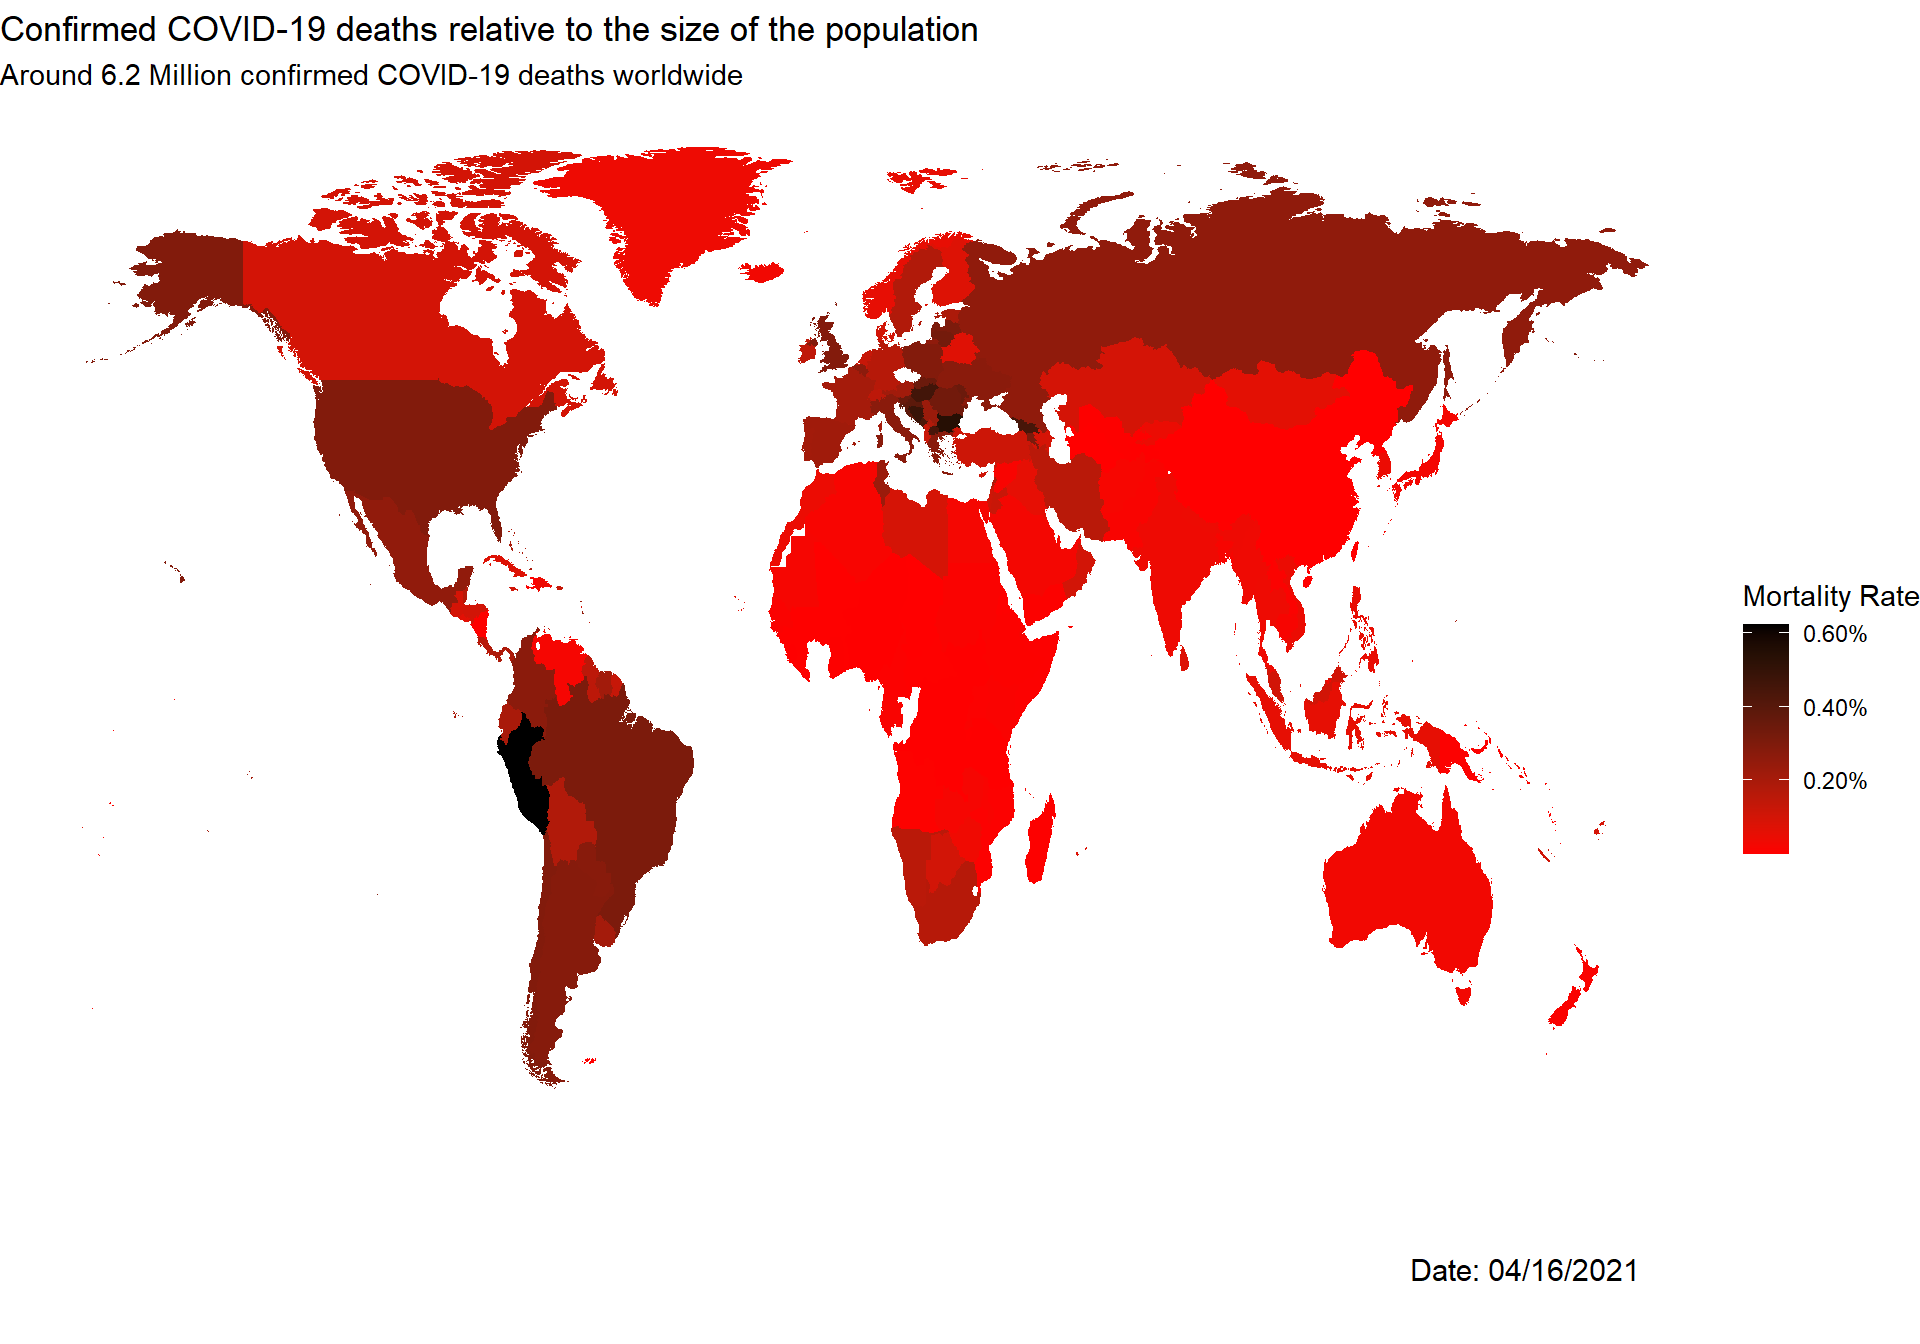
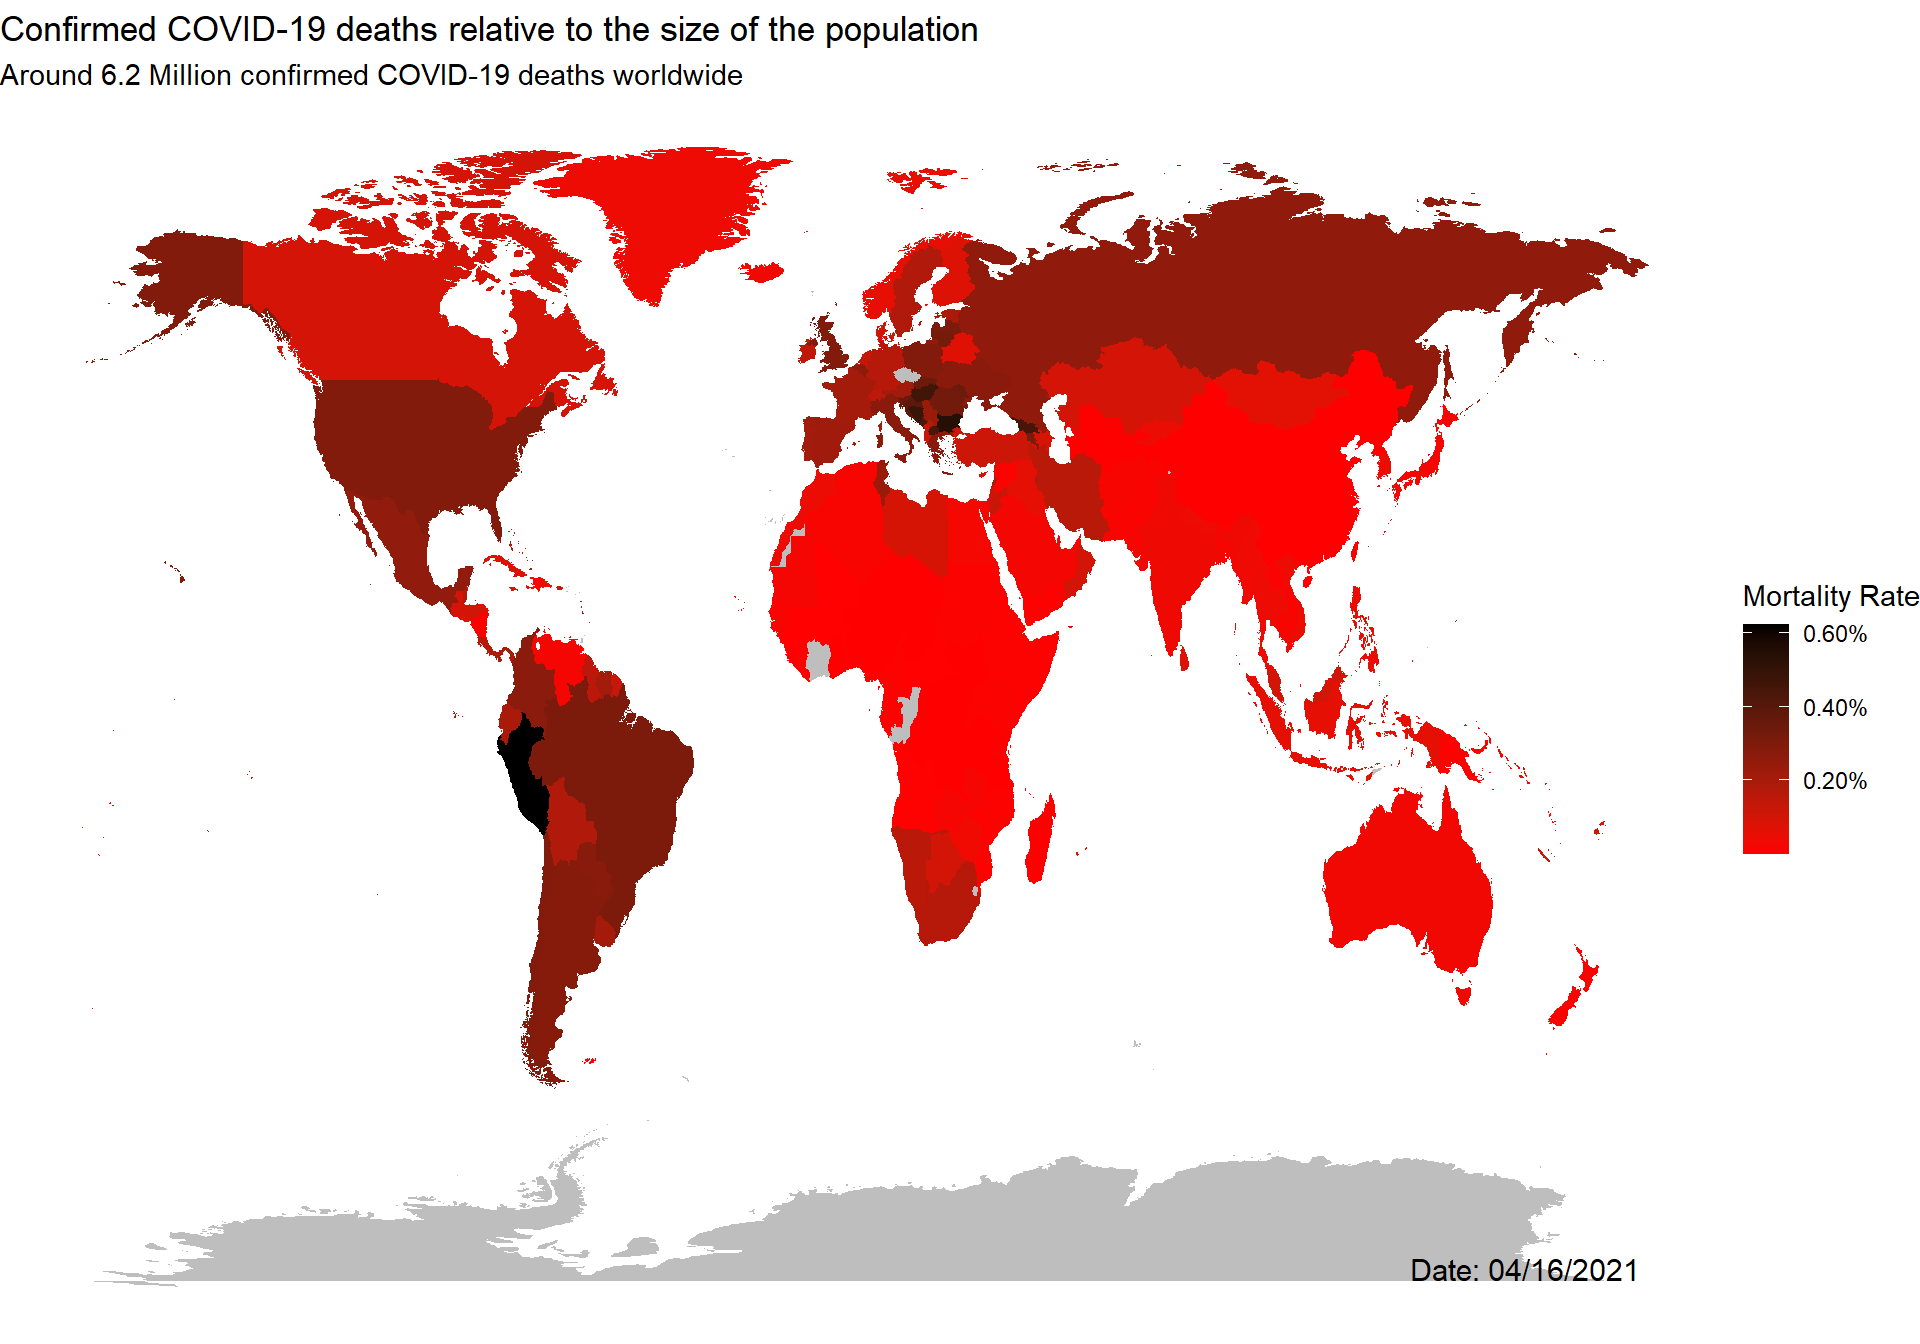
a

Changed region(s): [[0.0625, 0.8438, 0.8125, 0.9688], [0.4688, 0.5, 0.5, 0.5625], [0.4062, 0.4688, 0.4375, 0.5]]

diff --git a/_site/content/01_journal/04_data_visualization.html b/_site/content/01_journal/04_data_visualization.html
@@ -296,7 +296,7 @@ code span.wa { color: #60a0b0; font-weight: bold; font-style: italic; } /* Warni
 </div>
 </section><section id="data-visualization-challenge-2" class="level1" data-number="2"><h1 data-number="2">
 <span class="header-section-number">2</span> Data Visualization Challenge-2</h1>
-<div class="cell" data-hash="04_data_visualization_cache/html/plots_f70eedab9838a4bb1248faf86b5abf9f">
+<div class="cell" data-hash="04_data_visualization_cache/html/plots_3a2caa6a9ae571732e92ceb50b089ee3">
 <div class="sourceCode cell-code" id="cb5"><pre class="sourceCode numberSource r number-lines code-with-copy"><code class="sourceCode r"><span id="cb5-1"><a href="#cb5-1"></a><span class="fu">library</span>(tidyverse)</span>
 <span id="cb5-2"><a href="#cb5-2"></a><span class="fu">library</span>(maps)</span>
 <span id="cb5-3"><a href="#cb5-3"></a></span>
@@ -306,7 +306,7 @@ code span.wa { color: #60a0b0; font-weight: bold; font-style: italic; } /* Warni
 <span id="cb5-7"><a href="#cb5-7"></a><span class="do">##----2.Read the data----</span></span>
 <span id="cb5-8"><a href="#cb5-8"></a>covid_data_tbl <span class="ot">&lt;-</span> <span class="fu">read_csv</span>(<span class="st">"https://covid.ourworldindata.org/data/owid-covid-data.csv"</span>)</span></code><button title="Copy to Clipboard" class="code-copy-button"><i class="bi"></i></button></pre></div>
 <div class="cell-output cell-output-stderr">
-<pre><code>#&gt; Rows: 311447 Columns: 67
+<pre><code>#&gt; Rows: 311451 Columns: 67
 #&gt; ── Column specification ────────────────────────────────────────────────────────
 #&gt; Delimiter: ","
 #&gt; chr   (4): iso_code, continent, location, tests_units
@@ -327,7 +327,7 @@ code span.wa { color: #60a0b0; font-weight: bold; font-style: italic; } /* Warni
 <span id="cb7-9"><a href="#cb7-9"></a>    <span class="cn">TRUE</span> <span class="sc">~</span> location</span>
 <span id="cb7-10"><a href="#cb7-10"></a>  )) <span class="sc">%&gt;%</span></span>
 <span id="cb7-11"><a href="#cb7-11"></a>  <span class="fu">filter</span>(date <span class="sc">&lt;=</span> <span class="fu">as.Date</span>(<span class="st">"2022-04-19"</span>)) <span class="sc">%&gt;%</span></span>
-<span id="cb7-12"><a href="#cb7-12"></a>  <span class="fu">filter</span>(<span class="sc">!</span>(<span class="fu">is.na</span>(continent)))<span class="sc">%&gt;%</span></span>
+<span id="cb7-12"><a href="#cb7-12"></a>  <span class="fu">filter</span>(<span class="sc">!</span>(<span class="fu">is.na</span>(continent))) <span class="sc">%&gt;%</span></span>
 <span id="cb7-13"><a href="#cb7-13"></a>  <span class="fu">group_by</span>(location) <span class="sc">%&gt;%</span></span>
 <span id="cb7-14"><a href="#cb7-14"></a>  <span class="fu">summarize</span>(<span class="at">deaths_on_that_date =</span> <span class="fu">sum</span>(new_deaths[date <span class="sc">&lt;=</span> <span class="fu">as.Date</span>(<span class="st">"2022-04-19"</span>)], <span class="at">na.rm =</span> <span class="cn">TRUE</span>),</span>
 <span id="cb7-15"><a href="#cb7-15"></a>            <span class="at">population_on_that_date =</span> population[date <span class="sc">==</span> <span class="fu">as.Date</span>(<span class="st">"2022-04-19"</span>)],</span>
@@ -336,25 +336,33 @@ code span.wa { color: #60a0b0; font-weight: bold; font-style: italic; } /* Warni
 <span id="cb7-18"><a href="#cb7-18"></a><span class="do">##----4.Calculate total deaths worldwide because we need it in the subtitle----</span></span>
 <span id="cb7-19"><a href="#cb7-19"></a>deaths_worldwide_on_that_date <span class="ot">&lt;-</span> <span class="fu">round</span>(<span class="fu">sum</span>(plot_data<span class="sc">$</span>deaths_on_that_date, <span class="at">na.rm =</span> <span class="cn">TRUE</span>) <span class="sc">/</span> <span class="fl">1e6</span>, <span class="at">digits =</span> <span class="dv">1</span>)</span>
 <span id="cb7-20"><a href="#cb7-20"></a></span>
-<span id="cb7-21"><a href="#cb7-21"></a><span class="do">##----6.Plot----</span></span>
-<span id="cb7-22"><a href="#cb7-22"></a><span class="fu">ggplot</span>(plot_data, <span class="fu">aes</span>(<span class="at">map_id =</span> location)) <span class="sc">+</span></span>
-<span id="cb7-23"><a href="#cb7-23"></a>  <span class="fu">geom_map</span>(<span class="fu">aes</span>(<span class="at">fill =</span> mortality_rate), <span class="at">map =</span> world) <span class="sc">+</span></span>
-<span id="cb7-24"><a href="#cb7-24"></a>  <span class="fu">expand_limits</span>(<span class="at">x =</span> world<span class="sc">$</span>long, <span class="at">y =</span> world<span class="sc">$</span>lat) <span class="sc">+</span></span>
-<span id="cb7-25"><a href="#cb7-25"></a>  <span class="fu">scale_fill_gradient</span>(<span class="at">low =</span> <span class="st">"red"</span>, <span class="at">high =</span> <span class="st">"black"</span>, <span class="at">na.value =</span> <span class="st">"grey"</span>, <span class="at">breaks =</span> <span class="fu">c</span>(<span class="fl">0.20</span>, <span class="fl">0.40</span>, <span class="fl">0.60</span>), <span class="at">labels =</span> <span class="fu">c</span>(<span class="st">"0.20%"</span>, <span class="st">"0.40%"</span>, <span class="st">"0.60%"</span>)) <span class="sc">+</span></span>
-<span id="cb7-26"><a href="#cb7-26"></a>  <span class="fu">labs</span>(<span class="at">title =</span> <span class="st">"Confirmed COVID-19 deaths relative to the size of the population"</span>,</span>
-<span id="cb7-27"><a href="#cb7-27"></a>       <span class="at">subtitle =</span> <span class="fu">paste0</span>(<span class="st">"Around "</span>, deaths_worldwide_on_that_date, <span class="st">" Million"</span>, <span class="st">" confirmed COVID-19 deaths worldwide"</span>),</span>
-<span id="cb7-28"><a href="#cb7-28"></a>       <span class="at">fill =</span> <span class="st">"Mortality Rate"</span>) <span class="sc">+</span></span>
-<span id="cb7-29"><a href="#cb7-29"></a>  <span class="fu">theme_void</span>() <span class="sc">+</span></span>
-<span id="cb7-30"><a href="#cb7-30"></a>  <span class="fu">annotate</span>(</span>
-<span id="cb7-31"><a href="#cb7-31"></a>    <span class="st">"text"</span>,</span>
-<span id="cb7-32"><a href="#cb7-32"></a>    <span class="at">x =</span> <span class="fu">max</span>(world<span class="sc">$</span>long) <span class="sc">-</span> <span class="dv">2</span>,</span>
-<span id="cb7-33"><a href="#cb7-33"></a>    <span class="at">y =</span> <span class="fu">min</span>(world<span class="sc">$</span>lat) <span class="sc">+</span> <span class="dv">1</span>,</span>
-<span id="cb7-34"><a href="#cb7-34"></a>    <span class="at">label =</span> <span class="st">"Date: 04/16/2021"</span>,</span>
-<span id="cb7-35"><a href="#cb7-35"></a>    <span class="at">hjust =</span> <span class="dv">1</span>,</span>
-<span id="cb7-36"><a href="#cb7-36"></a>    <span class="at">vjust =</span> <span class="dv">0</span>,</span>
-<span id="cb7-37"><a href="#cb7-37"></a>    <span class="at">size =</span> <span class="dv">4</span>,</span>
-<span id="cb7-38"><a href="#cb7-38"></a>    <span class="at">color =</span> <span class="st">"black"</span></span>
-<span id="cb7-39"><a href="#cb7-39"></a>  )</span></code><button title="Copy to Clipboard" class="code-copy-button"><i class="bi"></i></button></pre></div>
+<span id="cb7-21"><a href="#cb7-21"></a><span class="do">##----5.Add missing regions from the plot to be shown as the gray part (for example Antarctica) to the data----</span></span>
+<span id="cb7-22"><a href="#cb7-22"></a>missing_regions <span class="ot">&lt;-</span> world<span class="sc">$</span>region[<span class="sc">!</span>(world<span class="sc">$</span>region <span class="sc">%in%</span> plot_data<span class="sc">$</span>location)]</span>
+<span id="cb7-23"><a href="#cb7-23"></a>missing_data <span class="ot">&lt;-</span> <span class="fu">tibble</span>(<span class="at">location =</span> missing_regions,</span>
+<span id="cb7-24"><a href="#cb7-24"></a>                       <span class="at">deaths_on_that_date =</span> <span class="cn">NA</span>,</span>
+<span id="cb7-25"><a href="#cb7-25"></a>                       <span class="at">population_on_that_date =</span> <span class="cn">NA</span>,</span>
+<span id="cb7-26"><a href="#cb7-26"></a>                       <span class="at">mortality_rate =</span> <span class="cn">NA</span>)</span>
+<span id="cb7-27"><a href="#cb7-27"></a>plot_data <span class="ot">&lt;-</span> <span class="fu">bind_rows</span>(plot_data, missing_data)</span>
+<span id="cb7-28"><a href="#cb7-28"></a></span>
+<span id="cb7-29"><a href="#cb7-29"></a><span class="do">##----6.Plot----</span></span>
+<span id="cb7-30"><a href="#cb7-30"></a><span class="fu">ggplot</span>(plot_data, <span class="fu">aes</span>(<span class="at">map_id =</span> location)) <span class="sc">+</span></span>
+<span id="cb7-31"><a href="#cb7-31"></a>  <span class="fu">geom_map</span>(<span class="fu">aes</span>(<span class="at">fill =</span> mortality_rate), <span class="at">map =</span> world) <span class="sc">+</span></span>
+<span id="cb7-32"><a href="#cb7-32"></a>  <span class="fu">expand_limits</span>(<span class="at">x =</span> world<span class="sc">$</span>long, <span class="at">y =</span> world<span class="sc">$</span>lat) <span class="sc">+</span></span>
+<span id="cb7-33"><a href="#cb7-33"></a>  <span class="fu">scale_fill_gradient</span>(<span class="at">low =</span> <span class="st">"red"</span>, <span class="at">high =</span> <span class="st">"black"</span>, <span class="at">na.value =</span> <span class="st">"gray"</span>, <span class="at">breaks =</span> <span class="fu">c</span>(<span class="fl">0.20</span>, <span class="fl">0.40</span>, <span class="fl">0.60</span>), <span class="at">labels =</span> <span class="fu">c</span>(<span class="st">"0.20%"</span>, <span class="st">"0.40%"</span>, <span class="st">"0.60%"</span>)) <span class="sc">+</span></span>
+<span id="cb7-34"><a href="#cb7-34"></a>  <span class="fu">labs</span>(<span class="at">title =</span> <span class="st">"Confirmed COVID-19 deaths relative to the size of the population"</span>,</span>
+<span id="cb7-35"><a href="#cb7-35"></a>       <span class="at">subtitle =</span> <span class="fu">paste0</span>(<span class="st">"Around "</span>, deaths_worldwide_on_that_date, <span class="st">" Million"</span>, <span class="st">" confirmed COVID-19 deaths worldwide"</span>),</span>
+<span id="cb7-36"><a href="#cb7-36"></a>       <span class="at">fill =</span> <span class="st">"Mortality Rate"</span>) <span class="sc">+</span></span>
+<span id="cb7-37"><a href="#cb7-37"></a>  <span class="fu">theme_void</span>() <span class="sc">+</span></span>
+<span id="cb7-38"><a href="#cb7-38"></a>  <span class="fu">annotate</span>(</span>
+<span id="cb7-39"><a href="#cb7-39"></a>    <span class="st">"text"</span>,</span>
+<span id="cb7-40"><a href="#cb7-40"></a>    <span class="at">x =</span> <span class="fu">max</span>(world<span class="sc">$</span>long) <span class="sc">-</span> <span class="dv">2</span>,</span>
+<span id="cb7-41"><a href="#cb7-41"></a>    <span class="at">y =</span> <span class="fu">min</span>(world<span class="sc">$</span>lat) <span class="sc">+</span> <span class="dv">1</span>,</span>
+<span id="cb7-42"><a href="#cb7-42"></a>    <span class="at">label =</span> <span class="st">"Date: 04/16/2021"</span>,</span>
+<span id="cb7-43"><a href="#cb7-43"></a>    <span class="at">hjust =</span> <span class="dv">1</span>,</span>
+<span id="cb7-44"><a href="#cb7-44"></a>    <span class="at">vjust =</span> <span class="dv">0</span>,</span>
+<span id="cb7-45"><a href="#cb7-45"></a>    <span class="at">size =</span> <span class="dv">4</span>,</span>
+<span id="cb7-46"><a href="#cb7-46"></a>    <span class="at">color =</span> <span class="st">"black"</span></span>
+<span id="cb7-47"><a href="#cb7-47"></a>  )</span></code><button title="Copy to Clipboard" class="code-copy-button"><i class="bi"></i></button></pre></div>
 <div class="cell-output-display">
 <div class="quarto-figure quarto-figure-center">
 <figure class="figure"><p><a href="04_data_visualization_files/figure-html/plots-1.png" class="lightbox" data-gallery="quarto-lightbox-gallery-2"><img src="04_data_visualization_files/figure-html/plots-1.png" class="img-fluid figure-img" width="960"></a></p>
@@ -613,7 +621,7 @@ window.document.addEventListener("DOMContentLoaded", function (event) {
 });
 </script>
 </div> <!-- /content -->
-<script>var lightboxQuarto = GLightbox({"selector":".lightbox","closeEffect":"zoom","loop":true,"openEffect":"zoom","descPosition":"bottom"});</script>
+<script>var lightboxQuarto = GLightbox({"closeEffect":"zoom","selector":".lightbox","descPosition":"bottom","loop":true,"openEffect":"zoom"});</script>
 
 
 </body></html>

diff --git a/_site/content/01_journal/01_tidyverse.html b/_site/content/01_journal/01_tidyverse.html
@@ -633,7 +633,7 @@ window.document.addEventListener("DOMContentLoaded", function (event) {
 });
 </script>
 </div> <!-- /content -->
-<script>var lightboxQuarto = GLightbox({"closeEffect":"zoom","openEffect":"zoom","selector":".lightbox","descPosition":"bottom","loop":true});</script>
+<script>var lightboxQuarto = GLightbox({"openEffect":"zoom","closeEffect":"zoom","selector":".lightbox","descPosition":"bottom","loop":true});</script>
 
 
 </body></html>

diff --git a/_site/content/01_journal/02_data_acquisition.html b/_site/content/01_journal/02_data_acquisition.html
@@ -602,7 +602,7 @@ window.document.addEventListener("DOMContentLoaded", function (event) {
 });
 </script>
 </div> <!-- /content -->
-<script>var lightboxQuarto = GLightbox({"selector":".lightbox","closeEffect":"zoom","descPosition":"bottom","loop":true,"openEffect":"zoom"});</script>
+<script>var lightboxQuarto = GLightbox({"selector":".lightbox","descPosition":"bottom","openEffect":"zoom","loop":true,"closeEffect":"zoom"});</script>
 
 
 </body></html>

diff --git a/_site/index.html b/_site/index.html
@@ -430,7 +430,7 @@ window.document.addEventListener("DOMContentLoaded", function (event) {
 });
 </script>
 </div> <!-- /content -->
-<script>var lightboxQuarto = GLightbox({"descPosition":"bottom","selector":".lightbox","openEffect":"zoom","closeEffect":"zoom","loop":true});</script>
+<script>var lightboxQuarto = GLightbox({"closeEffect":"zoom","loop":true,"openEffect":"zoom","selector":".lightbox","descPosition":"bottom"});</script>
 
 
 
